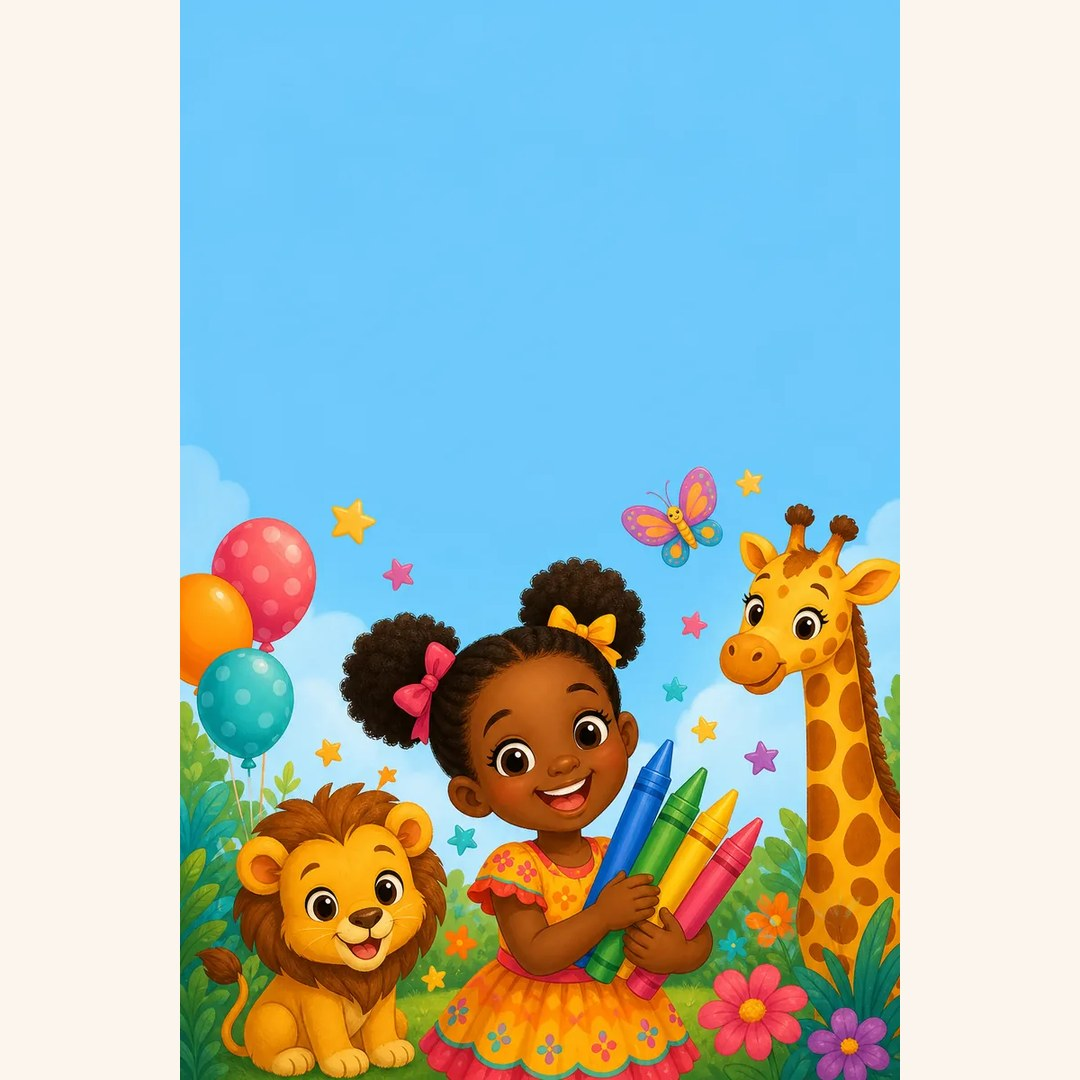
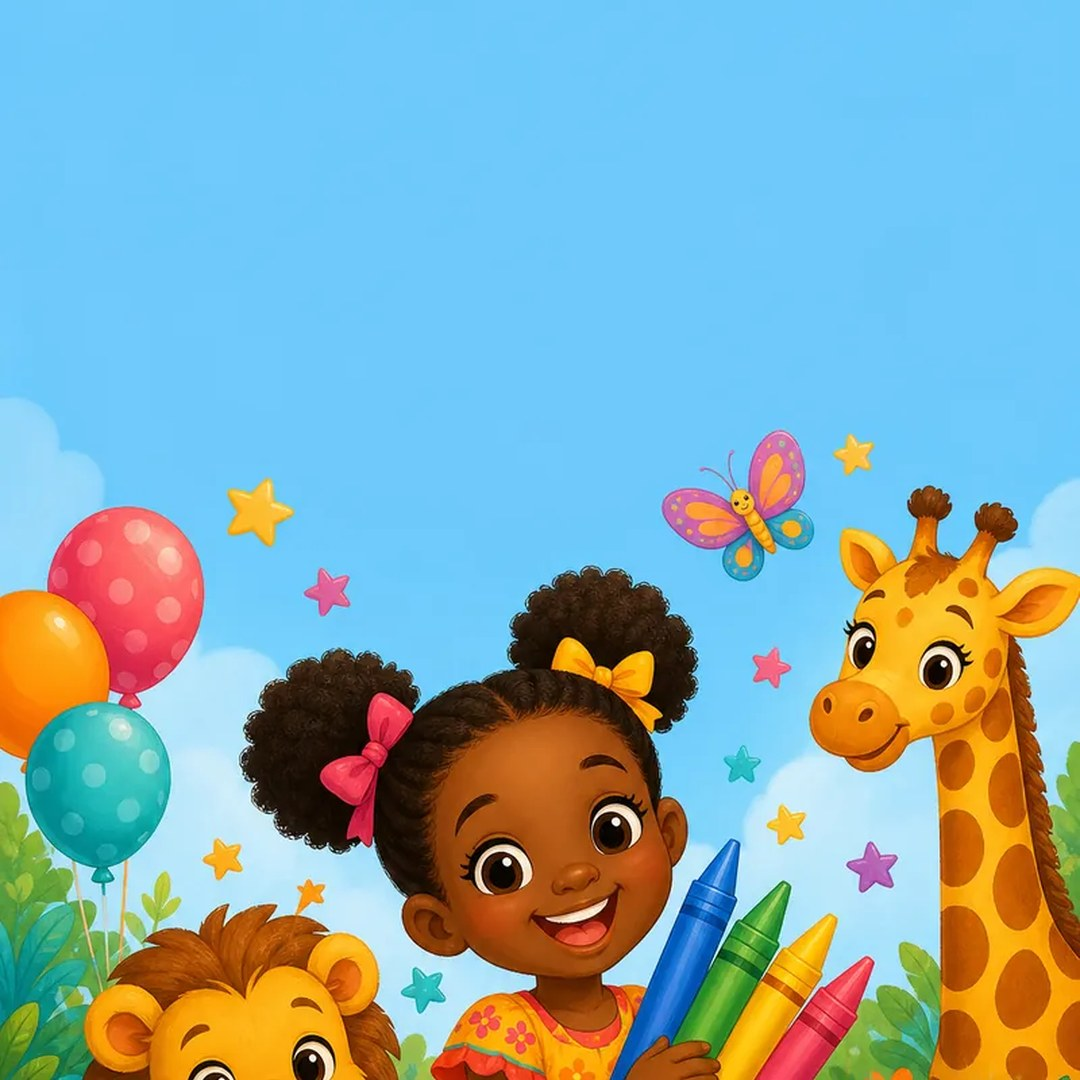
Vitrine du catalogue Meta (8 designs)

diff --git a/index.html b/index.html
@@ -40,10 +40,10 @@
   <link rel="preconnect" href="https://fonts.googleapis.com">
   <link rel="preconnect" href="https://fonts.gstatic.com" crossorigin>
   <link href="https://fonts.googleapis.com/css2?family=Bricolage+Grotesque:opsz,wght@12..96,400..800&family=DM+Sans:opsz,wght@9..40,400..700&family=Instrument+Serif:ital@0;1&family=Caveat:wght@600;700&display=swap" rel="stylesheet">
-  <link rel="stylesheet" href="style.css?v=202611051110">
-  <link rel="stylesheet" href="monde.css?v=202611051110">
-  <link rel="stylesheet" href="nuit.css?v=202611051110">
-  <link rel="stylesheet" href="studio.css?v=202611051110">
+  <link rel="stylesheet" href="style.css?v=202611051111">
+  <link rel="stylesheet" href="monde.css?v=202611051111">
+  <link rel="stylesheet" href="nuit.css?v=202611051111">
+  <link rel="stylesheet" href="studio.css?v=202611051111">
 </head>
 <body>
   <a class="skip" href="#catalogue">Aller au catalogue</a>
@@ -410,9 +410,9 @@
   </dialog>
 
   <canvas class="feux" aria-hidden="true"></canvas>
-  <script src="config.js?v=202611051110"></script>
-  <script src="photos.js?v=202611051110"></script>
-  <script src="app.js?v=202611051110"></script>
-  <script src="monde.js?v=202611051110"></script>
+  <script src="config.js?v=202611051111"></script>
+  <script src="photos.js?v=202611051111"></script>
+  <script src="app.js?v=202611051111"></script>
+  <script src="monde.js?v=202611051111"></script>
 </body>
 </html>

diff --git a/espace.html b/espace.html
@@ -11,14 +11,14 @@
   <link rel="preconnect" href="https://fonts.googleapis.com">
   <link rel="preconnect" href="https://fonts.gstatic.com" crossorigin>
   <link href="https://fonts.googleapis.com/css2?family=Bricolage+Grotesque:opsz,wght@12..96,400..800&family=DM+Sans:opsz,wght@9..40,400..700&family=Instrument+Serif:ital@0;1&display=swap" rel="stylesheet">
-  <link rel="stylesheet" href="espace.css?v=202611051110">
+  <link rel="stylesheet" href="espace.css?v=202611051111">
 </head>
 <body data-page="espace">
   <header class="e-tete"><a href="./" aria-label="Retour au site Maënis Studio"><img src="images/logo-creme.png" alt="Maënis Studio"></a><span>Mon espace</span></header>
   <main id="app"><p class="chargement">Un instant…</p></main>
   <footer class="e-pied">Une question ? <a href="https://wa.me/237690164222">WhatsApp +237 6 90 16 42 22</a> · <a href="mailto:marie.maenisstudio@gmail.com">marie.maenisstudio@gmail.com</a><br><a href="./">maenisstudio.com</a> · Instagram @seethatbeauty.aw · TikTok @seethatbeauty</footer>
-  <script src="config.js?v=202611051110"></script>
-  <script src="photos.js?v=202611051110"></script>
-  <script src="espace.js?v=202611051110"></script>
+  <script src="config.js?v=202611051111"></script>
+  <script src="photos.js?v=202611051111"></script>
+  <script src="espace.js?v=202611051111"></script>
 </body>
 </html>

diff --git a/atelier.html b/atelier.html
@@ -10,13 +10,13 @@
   <link rel="preconnect" href="https://fonts.googleapis.com">
   <link rel="preconnect" href="https://fonts.gstatic.com" crossorigin>
   <link href="https://fonts.googleapis.com/css2?family=Bricolage+Grotesque:opsz,wght@12..96,400..800&family=DM+Sans:opsz,wght@9..40,400..700&family=Instrument+Serif:ital@0;1&display=swap" rel="stylesheet">
-  <link rel="stylesheet" href="espace.css?v=202611051110">
+  <link rel="stylesheet" href="espace.css?v=202611051111">
 </head>
 <body data-page="atelier">
   <header class="e-tete"><a href="./" aria-label="Maënis Studio"><img src="images/logo-creme.png" alt="Maënis Studio"></a><span>Atelier</span></header>
   <main id="app"><p class="chargement">Un instant…</p></main>
   <footer class="e-pied">Marie, Maënis Studio · <a href="https://wa.me/237690164222">WhatsApp +237 6 90 16 42 22</a> · <a href="mailto:marie.maenisstudio@gmail.com">marie.maenisstudio@gmail.com</a></footer>
-  <script src="config.js?v=202611051110"></script>
-  <script src="espace.js?v=202611051110"></script>
+  <script src="config.js?v=202611051111"></script>
+  <script src="espace.js?v=202611051111"></script>
 </body>
 </html>
